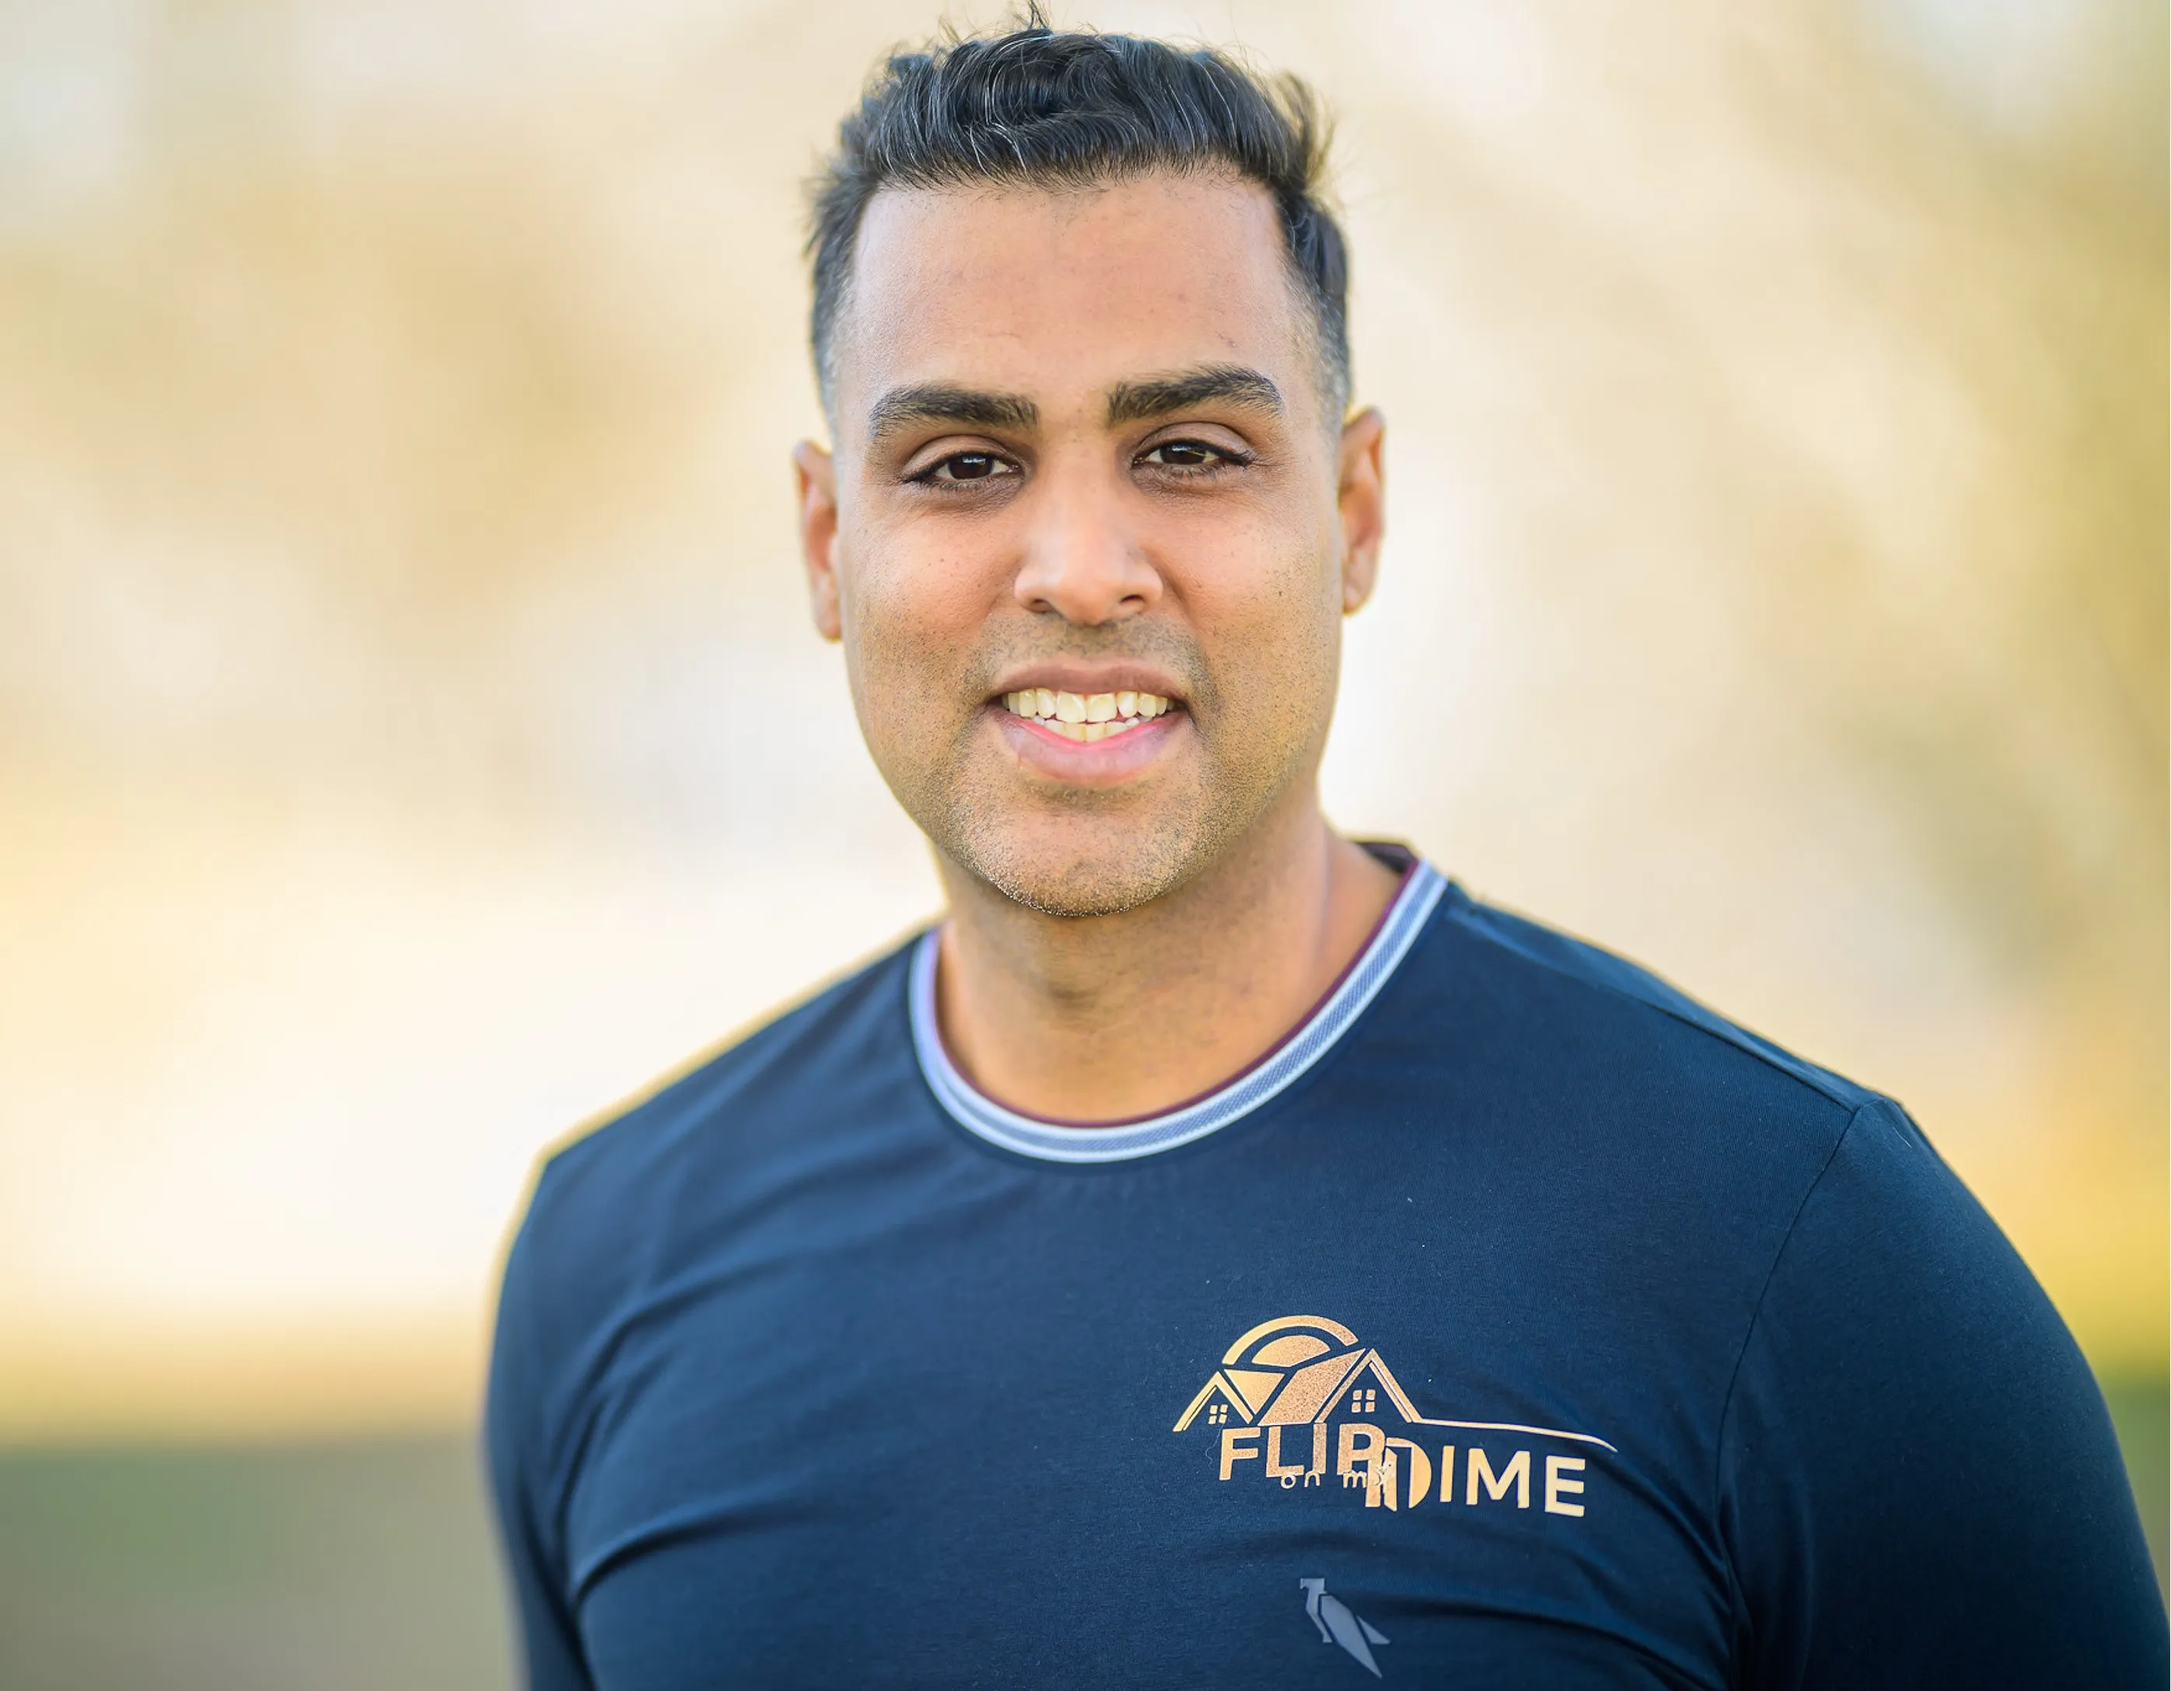
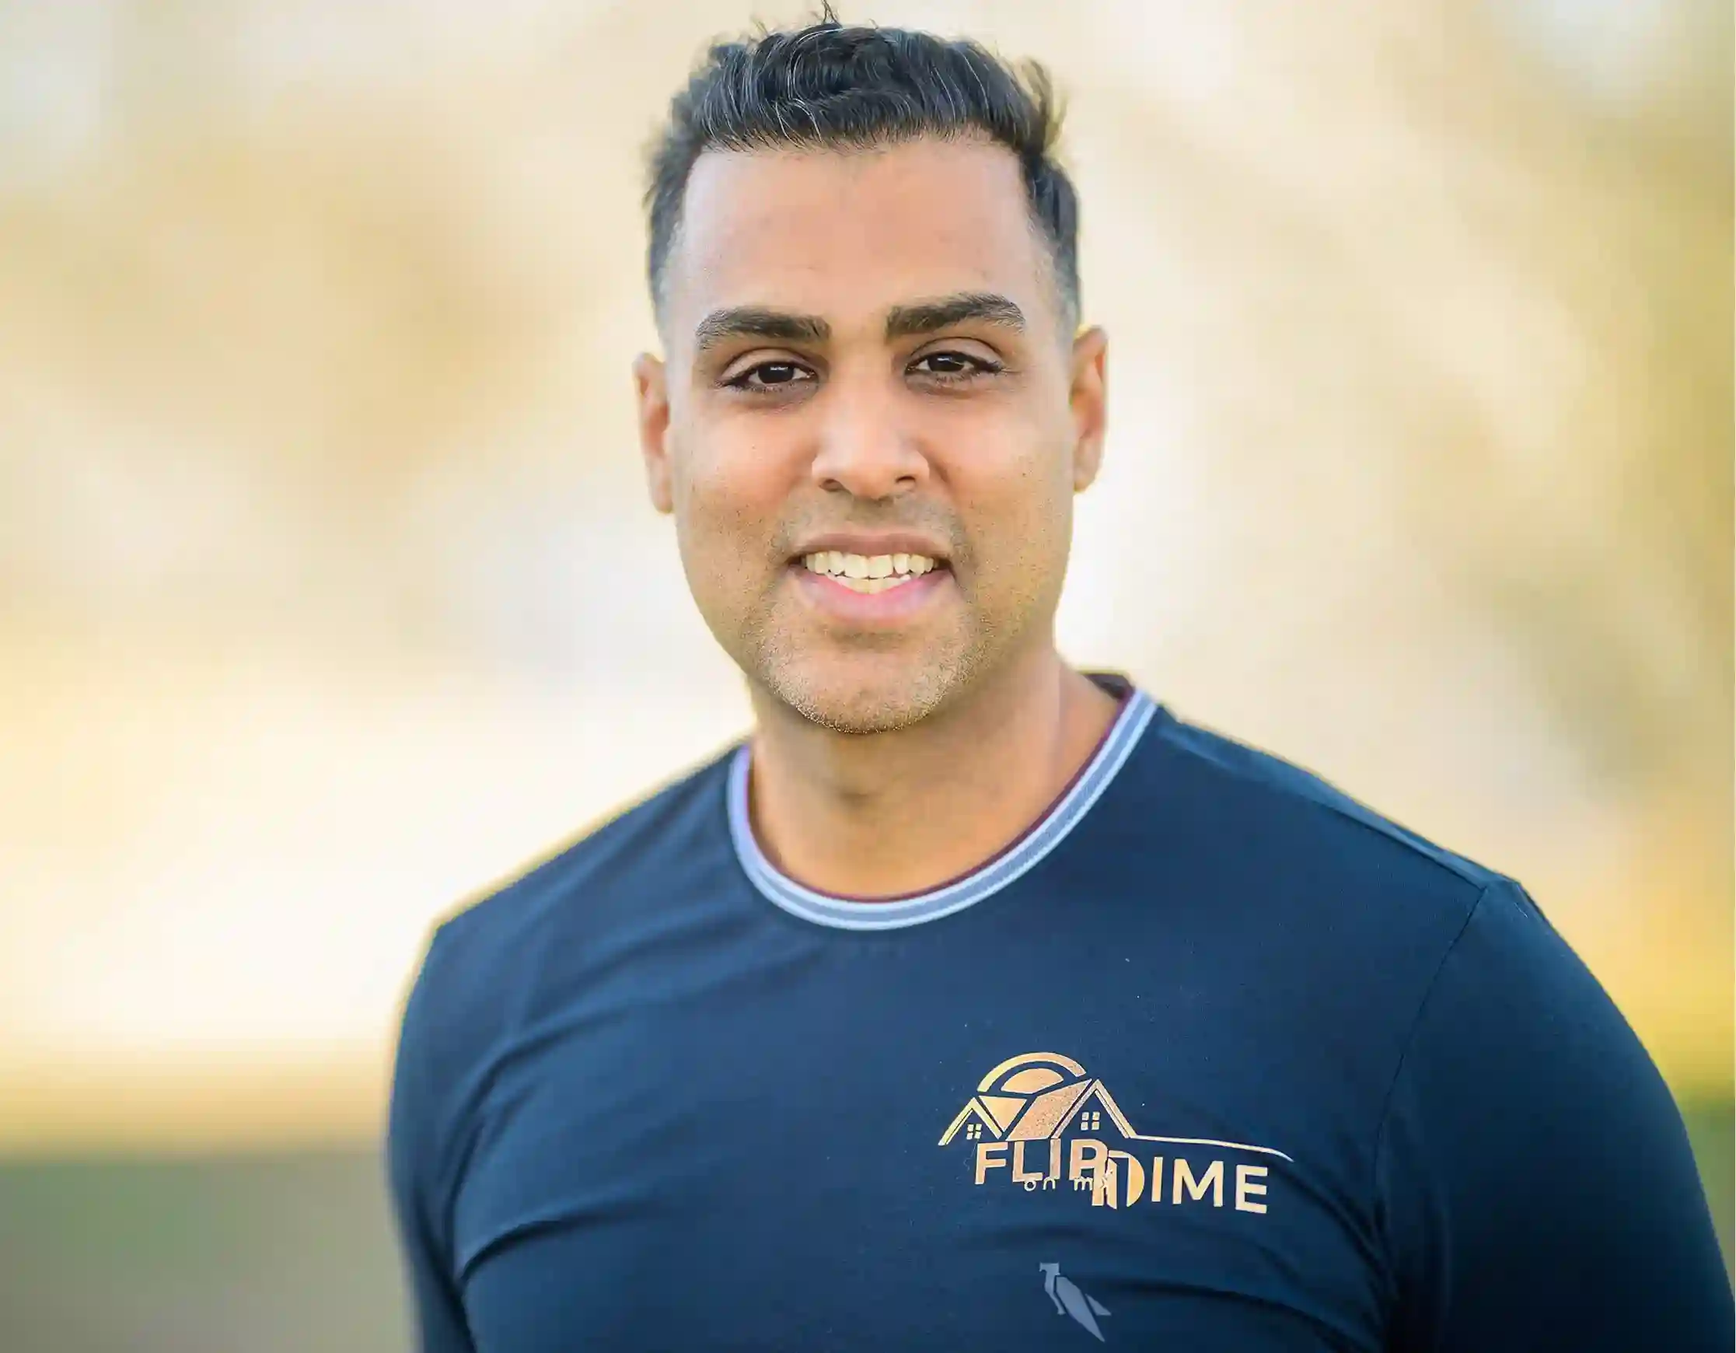
Image Compression + SEO Improvements

Changed region(s): [[0.5562, 0.7759, 0.7416, 0.9]]

diff --git a/index.html b/index.html
@@ -15,24 +15,48 @@
     <meta charset="UTF-8" />
     <meta name="viewport" content="width=device-width, initial-scale=1.0" />
     <title>Flip on My Dime</title>
+    <meta name="theme-color" content="#141515" />
+    <meta name="robots" content="index, follow" />
+    <meta name="author" content="Flip on My Dime" />
 
     <link rel="icon" type="image/png" href="./src/assets/favicon.png" />
-
-    <link rel="preload" href="https://fonts.googleapis.com/css2?family=Montserrat:wght@400;600;700&display=swap" as="style" />
-    <link rel="preload" href="https://fonts.googleapis.com/css2?family=Poppins:wght@400;600&display=swap" as="style" />
-    <link rel="stylesheet" href="https://fonts.googleapis.com/css2?family=Montserrat:wght@400;600;700&family=Poppins:wght@400;600&display=swap" />
 
     <link rel="preconnect" href="https://fonts.googleapis.com" />
     <link rel="preconnect" href="https://fonts.gstatic.com" crossorigin />
 
-    <link rel="preload" as="video" href="https://fliponmydime.com/assets/bg-video2.mp4" type="video/mp4">
-    <link rel="preload" as="video" href="https://fliponmydime.com/assets/bg-video-mobile.mp4" type="video/mp4">
+    <link
+      rel="preload"
+      as="style"
+      href="https://fonts.googleapis.com/css2?family=Montserrat:wght@400;600;700&family=Poppins:wght@400;600&display=swap"
+    />
+
+    <link
+      href="https://fonts.googleapis.com/css2?family=Montserrat:wght@400;600;700&family=Poppins:wght@400;600&display=swap"
+      rel="stylesheet"
+      media="print"
+      onload="this.media='all'"
+    />
+    <noscript>
+      <link
+        rel="stylesheet"
+        href="https://fonts.googleapis.com/css2?family=Montserrat:wght@400;600;700&family=Poppins:wght@400;600&display=swap"
+      />
+    </noscript>
+
+    <link
+      rel="preload"
+      as="video"
+      href="https://fliponmydime.com/assets/bg-video2.mp4"
+      type="video/mp4"
+    />
+    <link
+      rel="preload"
+      as="video"
+      href="https://fliponmydime.com/assets/bg-video-mobile.mp4"
+      type="video/mp4"
+    />
 
     <script type="module" src="/src/main.jsx" defer></script>
-
-    <meta name="theme-color" content="#141515" />
-    <meta name="robots" content="index, follow" />
-    <meta name="author" content="Flip on My Dime" />
   </head>
 
   <body>

diff --git a/src/pages/CashOffer/CashOffer.jsx b/src/pages/CashOffer/CashOffer.jsx
@@ -1,13 +1,13 @@
 import React from "react";
 import "./CashOffer.css";
-import FormMobile from "../../assets/mobile-form.png";
-import FormEmail from "../../assets/email-form.png";
+import FormMobile from "../../assets/mobile-form.webp";
+import FormEmail from "../../assets/email-form.webp";
 import { useState } from "react";
 import emailjs from "emailjs-com";
 import { ToastContainer, toast } from "react-toastify";
 import "react-toastify/dist/ReactToastify.css";
 import { Helmet } from "react-helmet";
-import socialImage from "../../assets/logo.jpeg";
+import socialImage from "../../assets/logo.webp";
 
 const CashOffer = () => {
   const [formValues, setFormValues] = useState({
@@ -80,7 +80,7 @@ const CashOffer = () => {
     <>
       <Helmet>
         <title>
-          Sell Your House Fast | Fair Cash Offer in Houston | Flip on My Dime
+          Fair Cash Offer | Sell Your House Fast in Houston | Flip on My Dime
         </title>
 
         <meta

diff --git a/src/pages/HomeEvaluation/HomeEvaluation.jsx b/src/pages/HomeEvaluation/HomeEvaluation.jsx
@@ -1,14 +1,14 @@
 import React from "react";
 import "./HomeEvaluation.css";
-import FormMobile from "../../assets/mobile-form.png";
-import FormEmail from "../../assets/email-form.png";
+import FormMobile from "../../assets/mobile-form.webp";
+import FormEmail from "../../assets/email-form.webp";
 import { useState } from "react";
 import emailjs from "emailjs-com";
 import { ToastContainer, toast } from "react-toastify";
 import "react-toastify/dist/ReactToastify.css";
 import { FaEnvelope, FaPhoneAlt, FaMapMarkerAlt } from "react-icons/fa";
 import { Helmet } from "react-helmet";
-import socialImage from "../../assets/logo.jpeg";
+import socialImage from "../../assets/logo.webp";
 
 const HomeEvaluation = () => {
   const [formValues, setFormValues] = useState({

diff --git a/src/components/Footer/Footer.jsx b/src/components/Footer/Footer.jsx
@@ -1,8 +1,8 @@
 import React from "react";
 import "./Footer.css";
-import instagram from "../../assets/instagram.png";
-import facebook from "../../assets/facebook.png";
-import linkedin from "../../assets/linkedin.png";
+import instagram from "../../assets/instagram.webp";
+import facebook from "../../assets/facebook.webp";
+import linkedin from "../../assets/linkedin.webp";
 
 const Footer = () => {
   return (

diff --git a/src/pages/Homepage/Homepage.jsx b/src/pages/Homepage/Homepage.jsx
@@ -9,7 +9,7 @@ import { Helmet } from "react-helmet";
 import OurTeam from "../../components/OurTeam/OurTeam";
 import Portfolio from "../../components/Portfolio/Portfolio";
 import Testimonial from "../../components/Testimonial/Testimonial";
-import socialImage from "../../assets/logo.jpeg";
+import socialImage from "../../assets/logo.webp";
 
 const Homepage = () => {
   return (

diff --git a/src/pages/AboutUs/AboutUs.jsx b/src/pages/AboutUs/AboutUs.jsx
@@ -3,7 +3,7 @@ import teamMember2 from "../../assets/teamMember2.webp";
 import teamMember3 from "../../assets/teamMember3.webp";
 import teamMember4 from "../../assets/teamMember4.webp";
 import { Helmet } from "react-helmet";
-import socialImage from "../../assets/logo.jpeg";
+import socialImage from "../../assets/logo.webp";
 
 const AboutUs = () => {
   const teamMembers = [

diff --git a/src/components/Navbar/Navbar.jsx b/src/components/Navbar/Navbar.jsx
@@ -1,6 +1,5 @@
 import React, { useState, useEffect } from "react";
-import logo from "../../assets/logo.jpeg";
-import logo2 from "../../assets/logo-white.svg";
+import logo from "../../assets/logo.webp";
 import { Link, useLocation } from "react-router-dom";
 import "./Navbar.css";
 

diff --git a/src/components/ExtraDetailSection/ExtraDetailSection.jsx b/src/components/ExtraDetailSection/ExtraDetailSection.jsx
@@ -1,5 +1,5 @@
 import React, { useState } from "react";
-import img from "../../assets/Gallery19.jpg";
+import img from "../../assets/Gallery19.webp";
 import "./ExtraDetailSection.css";
 
 const ExtraDetailSection = () => {
